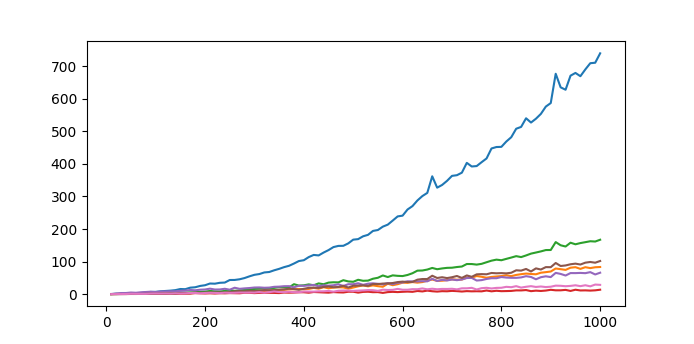
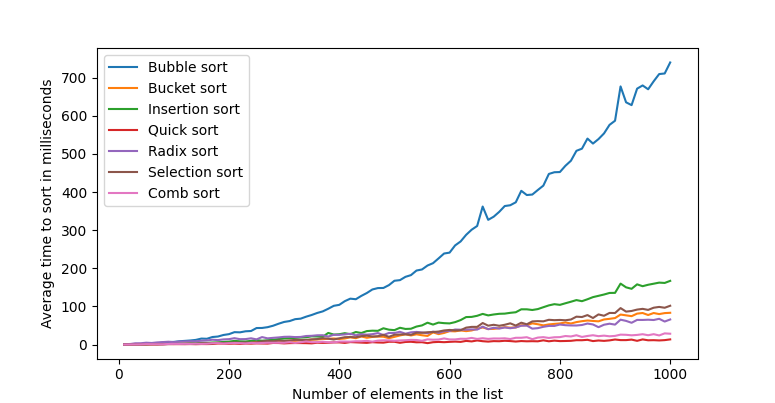
Thonnu

diff --git a/Sort/main.py b/Sort/main.py
@@ -19,7 +19,7 @@ for row in data:
     x.append(float(row[0]))
     y.append(float(row[1]))
 
-ax.plot(np.array(x), np.array(y))
+ax.plot(np.array(x), np.array(y), label='Bubble sort')
 
 x, y = [], []
 
@@ -27,7 +27,7 @@ for row in data:
     x.append(float(row[0]))
     y.append(float(row[2]))
 
-ax.plot(np.array(x), np.array(y))
+ax.plot(np.array(x), np.array(y), label='Bucket sort')
 
 x, y = [], []
 
@@ -35,7 +35,7 @@ for row in data:
     x.append(float(row[0]))
     y.append(float(row[3]))
 
-ax.plot(np.array(x), np.array(y))
+ax.plot(np.array(x), np.array(y), label='Insertion sort')
 
 x, y = [], []
 
@@ -43,7 +43,7 @@ for row in data:
     x.append(float(row[0]))
     y.append(float(row[4]))
 
-ax.plot(np.array(x), np.array(y))
+ax.plot(np.array(x), np.array(y), label='Quick sort')
 
 x, y = [], []
 
@@ -51,7 +51,7 @@ for row in data:
     x.append(float(row[0]))
     y.append(float(row[5]))
 
-ax.plot(np.array(x), np.array(y))
+ax.plot(np.array(x), np.array(y), label='Radix sort')
 
 x, y = [], []
 
@@ -59,7 +59,7 @@ for row in data:
     x.append(float(row[0]))
     y.append(float(row[6]))
 
-ax.plot(np.array(x), np.array(y))
+ax.plot(np.array(x), np.array(y), label='Selection sort')
 
 x, y = [], []
 
@@ -67,19 +67,10 @@ for row in data:
     x.append(float(row[0]))
     y.append(float(row[7]))
 
-ax.plot(np.array(x), np.array(y))
+ax.plot(np.array(x), np.array(y), label='Comb sort')
 
-print(
-    'Blue = Bubble sort',
-    'Orange = Bucket sort',
-    'Green = Insertion sort',
-    'Red = Quick sort',
-    'Purple = Radix sort',
-    'Brown = Selection sort',
-    'Pink = Comb sort',
-    '\nX axis: Number of elements in the list',
-    '\nY axis: Average time to sort in milliseconds',
-    sep='\n'
-)
+plt.xlabel('Number of elements in the list')
+plt.ylabel('Average time to sort in milliseconds')
 
+plt.legend()
 plt.show()

diff --git a/Search/get_data.py b/Search/get_data.py
@@ -1,0 +1,59 @@
+import random, statistics, time
+
+START, END, INCREMENT = 10, 1000, 10
+
+def insertion_sort(lst):
+    for x in range(1, len(lst)):
+        for y in range(x):
+            if lst[x] <= lst[y]:
+                z = lst[x]
+                lst.pop(x)
+                lst.insert(y, z)
+                break
+    return lst
+
+def binarySearch(arr, l, r, x):
+    if r >= l:
+        mid = l + (r - l) // 2
+        if arr[mid] == x:
+            return mid
+        elif arr[mid] > x:
+            return binarySearch(arr, l, mid - 1, x)
+        else:
+            return binarySearch(arr, mid + 1, r, x)
+    else:
+        return -1
+
+def linearSearch(arr, x):
+    for i in range(len(arr)):
+        if arr[i] == x:
+            return i
+    return -1
+
+def generate_random_list(l):
+    lst = []
+    for times in range(l):
+        lst.append(random.randint(0, 999))
+    return lst
+
+for length in range(START, END + 1, INCREMENT):
+    
+    counts1, counts2 = [], []
+    
+    for times in range(100):
+        
+        nums_list = insertion_sort(generate_random_list(length))
+        search_for = nums_list[random.randint(0, len(nums_list) - 1)]
+        start = time.time()
+        binarySearch(nums_list, 0, length - 1, search_for)
+        counts1.append((time.time() - start) * 1000)
+        
+        nums_list = generate_random_list(length)
+        search_for = nums_list[random.randint(0, len(nums_list) - 1)]
+        start = time.time()
+        linearSearch(nums_list, search_for)
+        counts2.append((time.time() - start) * 1000)
+
+    f = open('times.csv', 'a')
+    f.write(str(length) + ', ' + str(round(statistics.mean(counts1), 3)) + ', ' + str(round(statistics.mean(counts2), 3)) + '\n')
+    f.close()

diff --git a/Search/main.py b/Search/main.py
@@ -1,0 +1,46 @@
+import matplotlib.pyplot as plt
+import numpy as np
+
+
+f = open('times.csv')
+lines = f.read().split('\n')
+f.close()
+
+data = []
+for line in lines:
+    data.append(line.split(', '))
+
+
+fig, ax = plt.subplots()
+
+x, y = [], []
+
+for row in data:
+    x.append(int(row[0]))
+    y.append(float(row[1]))
+
+x, y = np.array(x), np.array(y)
+
+ax.plot(x, y, '#FFA500', label='Binary search')
+
+a, b = np.polyfit(x, y, 1)
+plt.plot(x, (a * x) + b, '#FF0000', label='Binary search best fit')
+
+x, y = [], []
+
+for row in data:
+    x.append(int(row[0]))
+    y.append(float(row[2]))
+
+x, y = np.array(x), np.array(y)
+
+ax.plot(x, y, '#00FF00', label='Linear search')
+
+a, b = np.polyfit(x, y, 1)
+plt.plot(x, (a * x) + b, '#228B22', label='Linear search best fit')
+
+plt.xlabel('Number of elements in the list')
+plt.ylabel('Average time to complete in milliseconds')
+
+plt.legend()
+plt.show()
